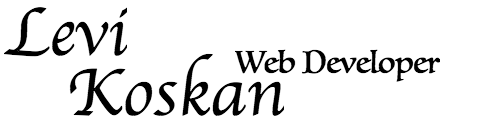
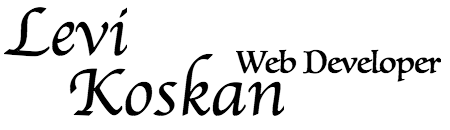
home page layout complete

Changed region(s): [[0.1244, 0.3692, 0.9956, 0.8923], [0.0, 0.0308, 0.28, 0.4308], [0.2178, 0.0615, 0.28, 0.1231]]

diff --git a/src/js/pages/Homes.js b/src/js/pages/Homes.js
@@ -51,22 +51,24 @@ export default class Featured extends React.Component {
             </div>
 
         </div>
-        <div className="skyContainer">
-          <img id='nameImg' src='../../public/images/nameText.png'/>
+        <div className="homeContainer">
+          <div className="skyContainer">
+            <img id='nameImg' src='../../public/images/nameText.png'/>
 
-          <img id="navCloud" onClick={this.show.bind(this)} src='../../public/images/navCloud.png'/>
-        </div>
-        <div className="beachContainer">
-          <Link to="projects">
+            <img id="navCloud" onClick={this.show.bind(this)} src='../../public/images/navCloud.png'/>
+          </div>
+          <div className="beachContainer">
+            <Link to="projects">
 
-              <img id='castleImg' src='../../public/images/sandCastle_Sign.png' />
+                <img id='castleImg' src='../../public/images/sandCastle_Sign.png' />
 
-          </Link>
-          <Link to="about" >
+            </Link>
+            <Link to="about" >
 
-              <img id='tikiImg' src='../../public/images/tiki_Levi_Sign.png' />
+                <img id='tikiImg' src='../../public/images/tiki_Levi_Sign.png' />
 
-          </Link>
+            </Link>
+          </div>
         </div>
       </div>
     );

diff --git a/src/public/style.css b/src/public/style.css
@@ -20,7 +20,7 @@ ul{
 }
 #nameImg{
   height: 120px;
-  margin-left: 100px;
+  margin-left: 60px;
   margin-top: 30px;
 }
 #webImg{
@@ -57,6 +57,7 @@ ul{
   -webkit-transform: translate3d(-250px, 0, 0);
   -o-transform: translate3d(-250px, 0, 0);
   -moz-transform: translate3d(-250px, 0, 0);
+  display: initial;
 }
 
 .menu > div {
@@ -108,6 +109,9 @@ ul{
 /*end of nav bar*/
 
 @media (max-width: 1050px){
+  body{
+    overflow: scroll;
+  }
   .skyContainer{
   flex-wrap: wrap;
   justify-content: center;
@@ -115,7 +119,23 @@ ul{
   .beachContainer{
   flex-wrap: wrap;
   }
+  .menu > div {
+    display: none;
+  }
 }
+@media (max-width: 400px){
+  .homeBackGround{
+    background-position: left;
+  }
+  #nameImg{
+    width: 350px;
+    margin-left: 0px;
+  }
+  .menu > div {
+    top: 50%;
+  }
+}
+
 /*end of home page*/
 
 /*projects page*/
